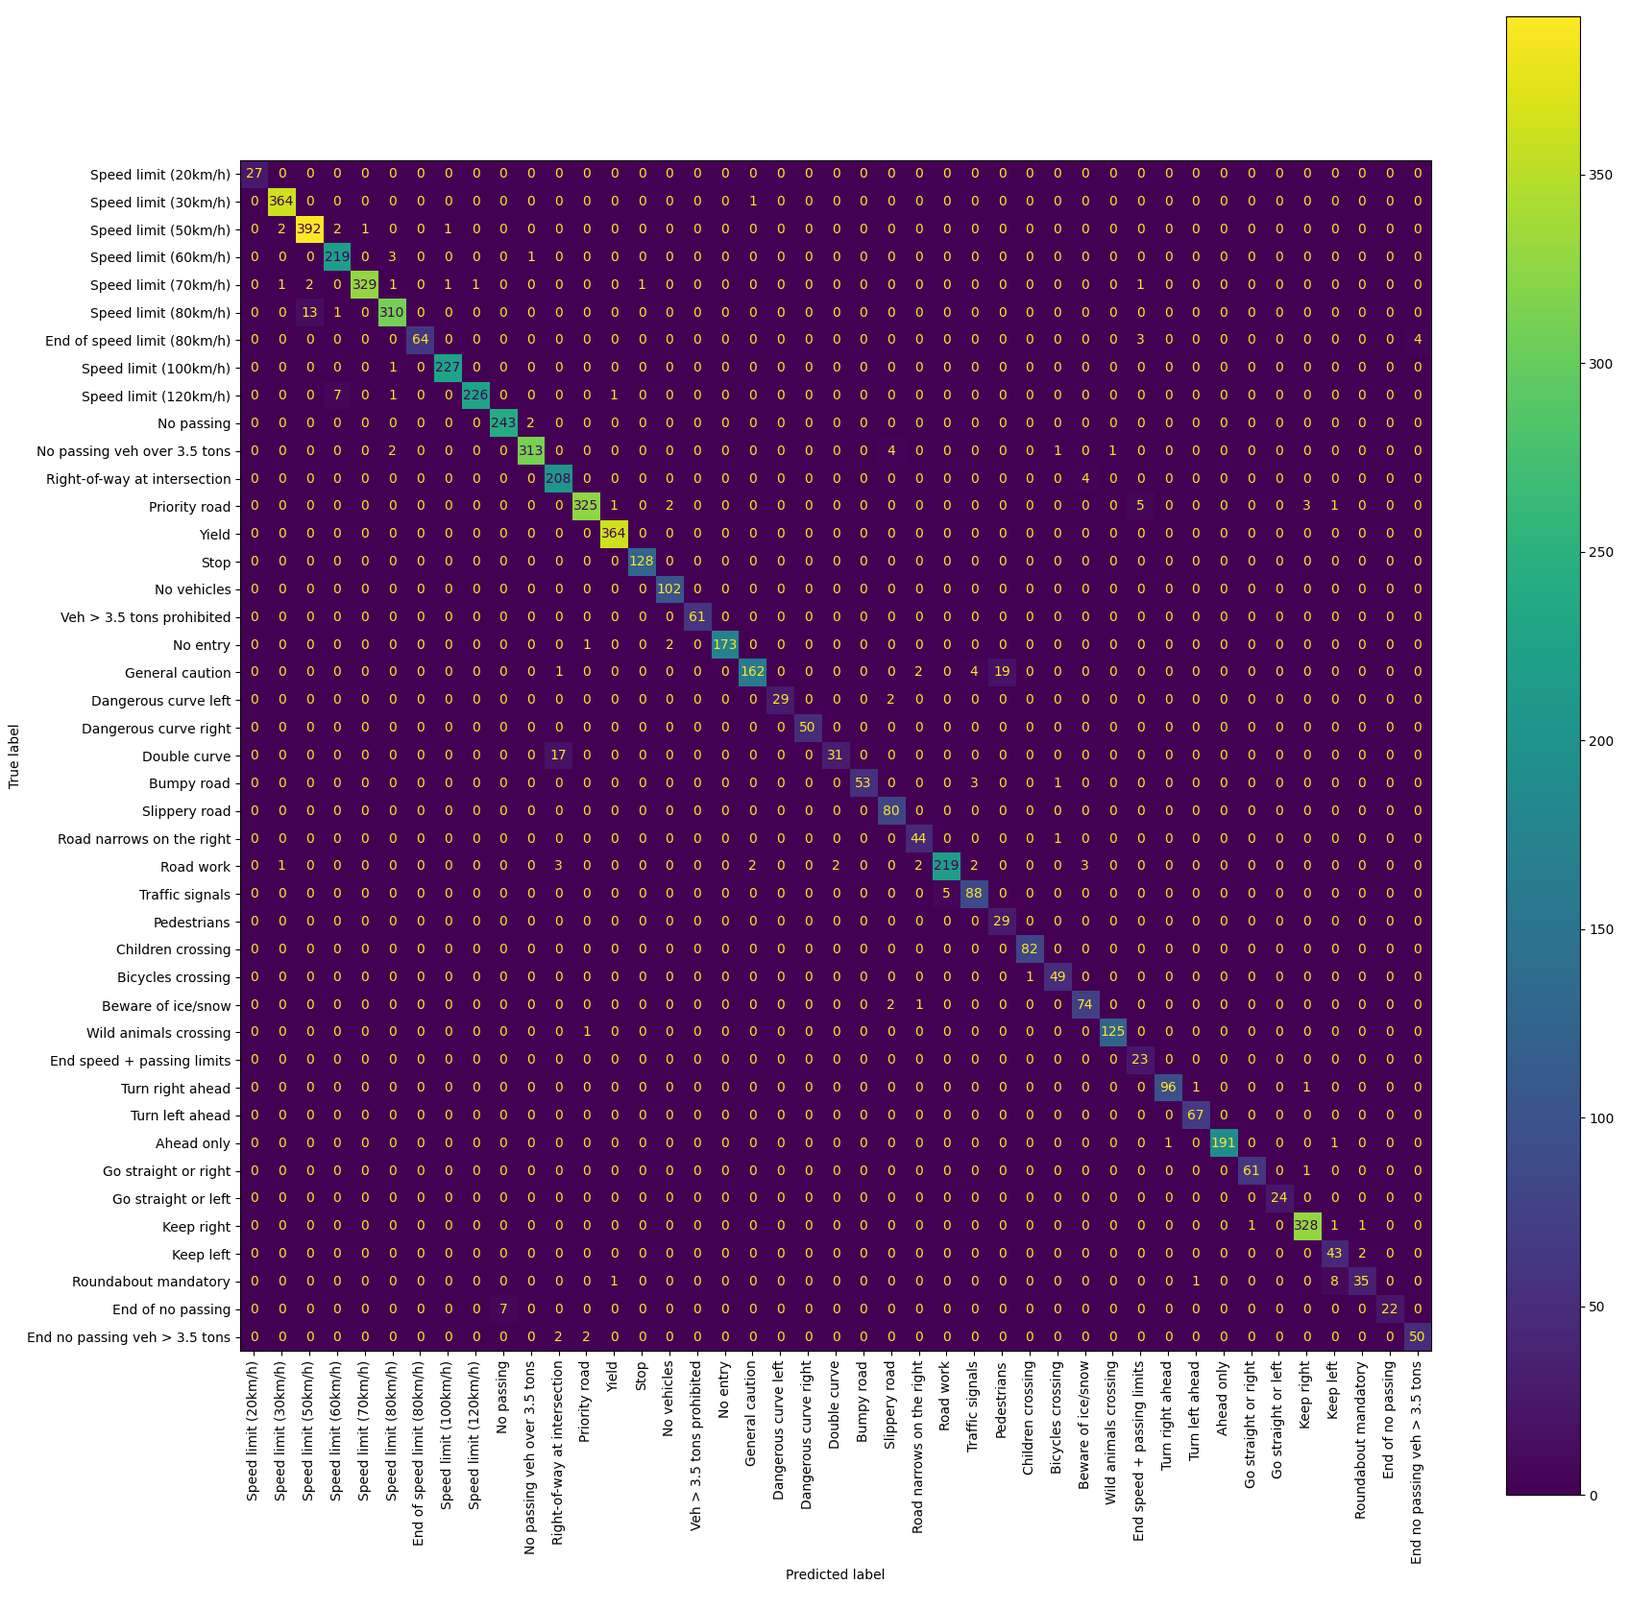
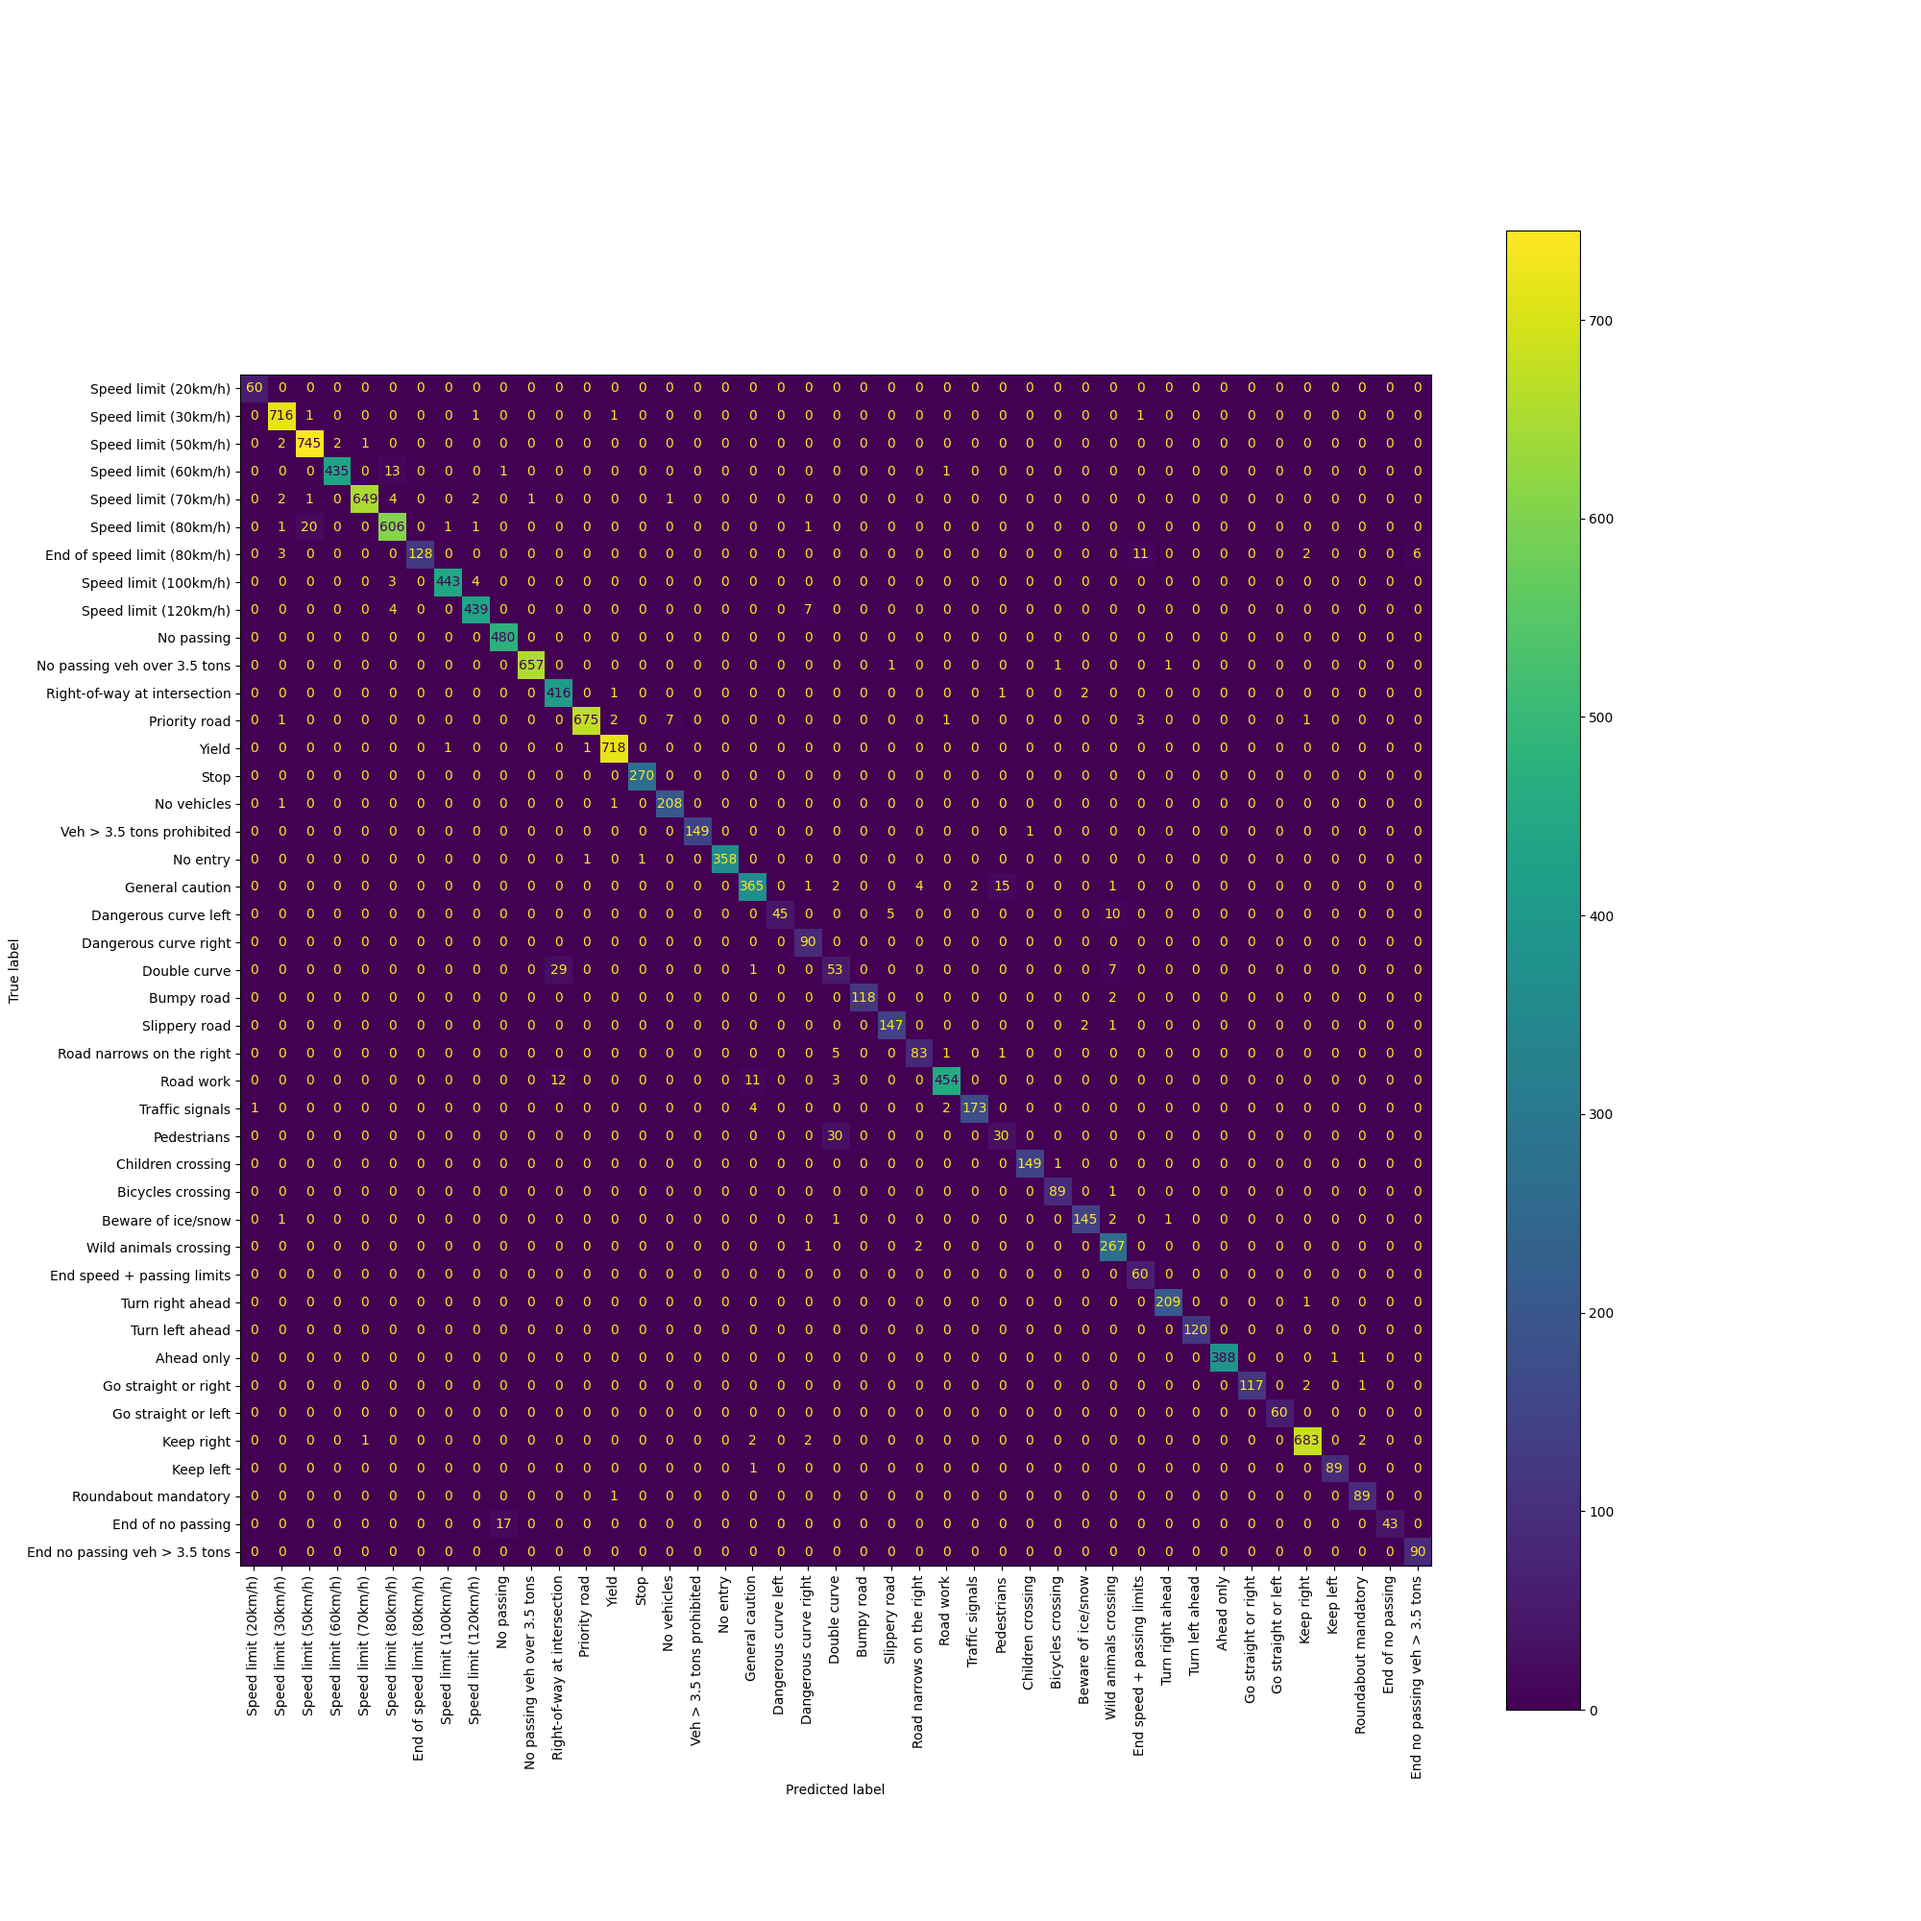
Updated results and images according to new trained model

diff --git a/README.md b/README.md
@@ -6,11 +6,11 @@
 
 | Split | Samples |
 | ----------- | ----------- |
-| Train | 39209 |
-| Validation | 6315 |
-| Test | 6315 |
+| Train | 36618 |
+| Validation | 2591 |
+| Test | 12630 |
 
-*We halved the testing set using random split to get a validation set (see the seed in config.yaml). Validation set is not considered for the results. This will change in future commits.*
+*Validation set is randomly sampled with the seed specified in the config.yaml file from the training set.*
 ![Class distribution of training set](images/dataset_dist.png)
 ![Preprocessing pipeline](images/preprocess.png)
 
@@ -18,10 +18,10 @@
 ## Results
 | Model | Micro F1 | Macro F1 | Top-5 Accuracy
 | ----------- | ----------- | ----------- | ----------- |
-| VGG-19 | 97.07% | 95.25% | 98.86% |
+| VGG-19 | 97.45% | 95.09% | 98.64% |
 
 ![Loss graph](images/losses.png)
 ![F1 scores graph](images/f1_scores.png)
-![F1 scores graph](images/lr_decay.png)
-![F1 scores graph](images/cm.png)
-![F1 scores graph](images/samples.png)
+![LR decay graph](images/lr_decay.png)
+![Confusion matrix](images/cm.png)
+![Random testing samples](images/test_samples.png)
